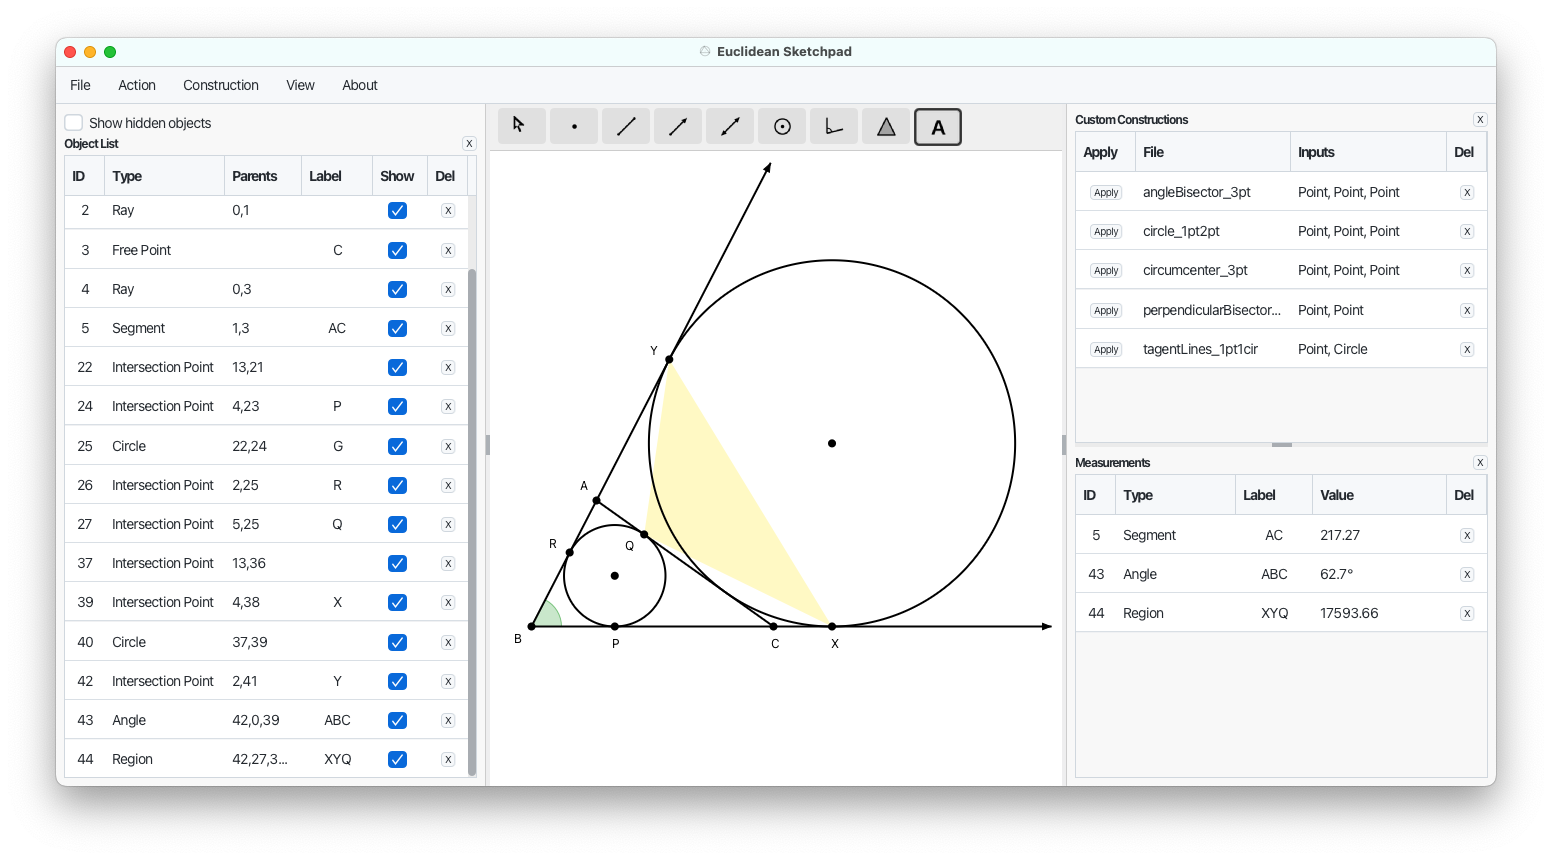
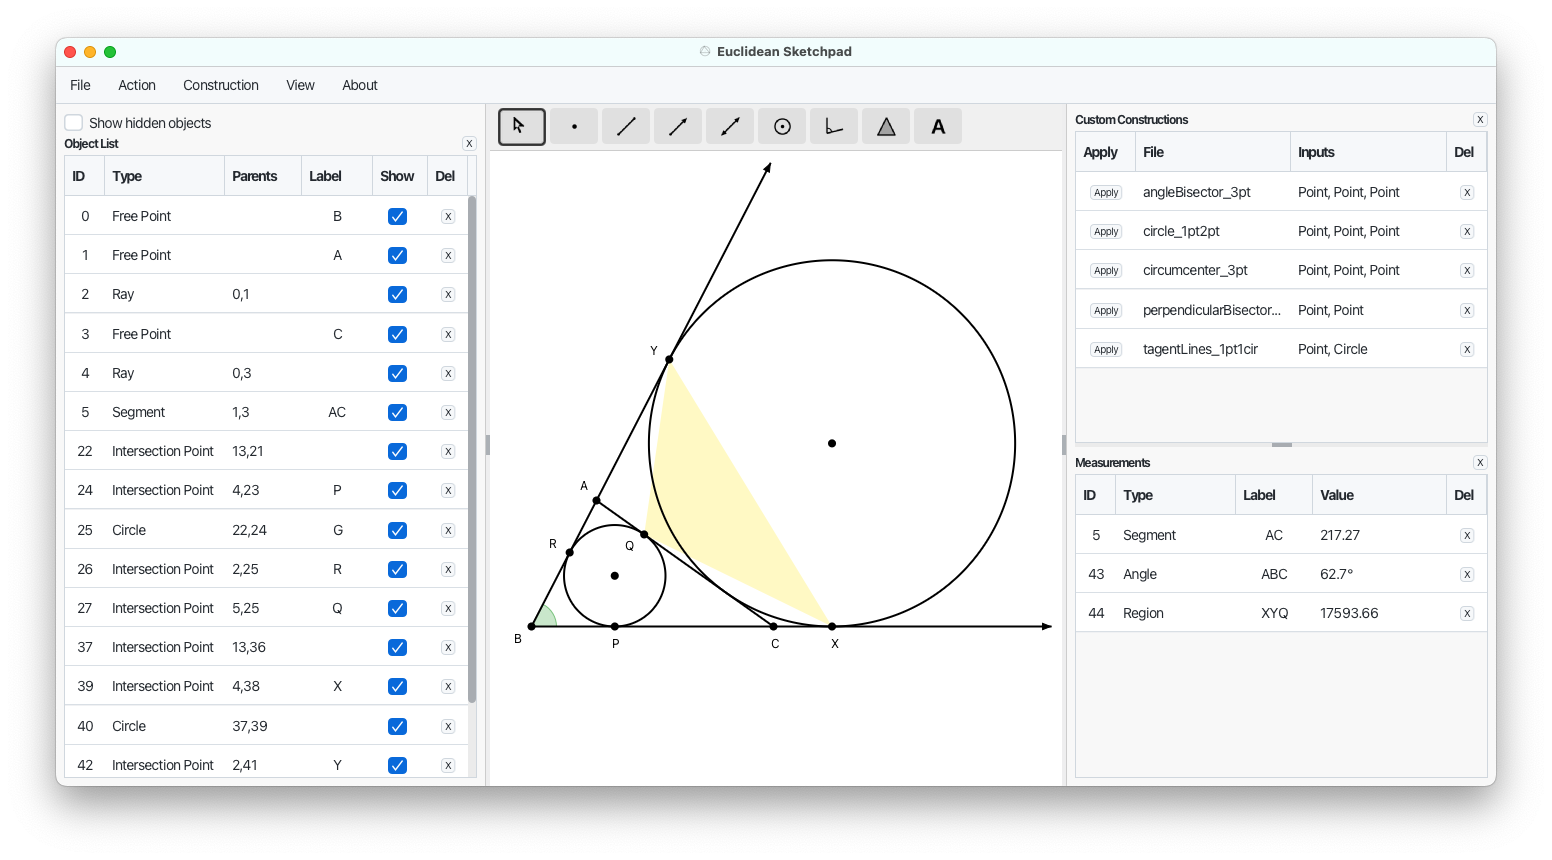
Release v1.5.6

diff --git a/src/main/kotlin/euclideansketchpad/Main.kt b/src/main/kotlin/euclideansketchpad/Main.kt
@@ -5,7 +5,7 @@ import euclideansketchpad.export.HeadlessExportApp
 import euclideansketchpad.ui.SketchpadApp
 
 const val APP_NAME = "EuclideanSketchpad"
-const val APP_VERSION = "1.5.5"
+const val APP_VERSION = "1.5.6"
 
 fun main(args: Array<String>) {
     if (args.isNotEmpty() && args[0] == "--export") {

diff --git a/src/main/kotlin/euclideansketchpad/geometry/GeometryUtils.kt b/src/main/kotlin/euclideansketchpad/geometry/GeometryUtils.kt
@@ -20,7 +20,7 @@ object GeometryUtils {
     const val STROKE_WIDTH = 2.0
     const val LINE_EXTENT = 100000.0
     const val ARROWHEAD_SIZE = 8.0
-    const val ANGLE_ARC_RADIUS = 30.0
+    const val ANGLE_ARC_RADIUS = 25.0
     const val FONT_SIZE = 12.0
     const val VIEWPORT_MARGIN_FRACTION = 0.02
 

diff --git a/handoff/HANDOFF.md b/handoff/HANDOFF.md
@@ -1,6 +1,6 @@
 # Euclidean Sketchpad — Handoff Document
 
-**Date:** 2026-11-02
+**Date:** 2026-11-07
 **Branch:** `main`
 
 ## Current State
@@ -9,7 +9,7 @@
 - **Git:** `.claude/` is gitignored.
 - **Runtime:** `./gradlew run` launches the full app.
 - **Headless export:** `./gradlew run --args="--export <diagram.json> [outDir]"` exports 6 files without opening the GUI.
-- **Packaging:** `./gradlew jpackage` produces `build/jpackage/EuclideanSketchpad-1.5.5.dmg` (~35 MB). `./gradlew jpackageImage` builds just the `.app` (faster, for testing). Not code-signed.
+- **Packaging:** `./gradlew jpackage` produces `build/jpackage/EuclideanSketchpad-1.5.6.dmg` (~35 MB). `./gradlew jpackageImage` builds just the `.app` (faster, for testing). Not code-signed.
 - **License:** GPL v3.0. Third-party notices for AtlantaFX (MIT), OpenJFX (GPL 2.0 + Classpath Exception), and kotlinx.serialization (Apache 2.0) are bundled in `src/main/resources/THIRD_PARTY_NOTICES` and viewable from the About dialog.
 - **Spec alignment:** All features described in `spec/SPEC.md` are implemented, including the `LinearLike` interface, 4 built-in constructions, specific type display names, "Custom Constructions" table rename, and viewport clipping for all object types.
 - **GitHub Pages:** `docs/` contains a static site (landing page, privacy policy, support page) served from `main` branch via GitHub Pages at `https://cartowong.github.io/euclidean-sketchpad/`. Images are copies of app assets to stay within the `/docs` serving root.

diff --git a/spec/SPEC.md b/spec/SPEC.md
@@ -291,7 +291,7 @@ Colors are set **programmatically** in the renderer, not via CSS classes. CSS cl
 | Region fill | | `#FFEB3B` at 0.3 opacity (semi-transparent yellow) |
 | Angle fill | | `#4CAF50` at 0.3 opacity (semi-transparent green) |
 | Angle stroke | | `#4CAF50` at 0.7 opacity, 1px |
-| Angle arc radius | | 30px (counter-scaled to world coordinates) |
+| Angle arc radius | | 25px (counter-scaled to world coordinates) |
 | Arrowheads | | 8px triangles (counter-scaled) |
 
 ### 5.2 State Styles

diff --git a/CHANGELOG.md b/CHANGELOG.md
@@ -6,6 +6,13 @@ The format is based on [Keep a Changelog](https://keepachangelog.com/), and this
 
 ## [Unreleased]
 
+## [1.5.6] - 2026-11-07
+
+### Changed
+
+- Decreased angle arc radius from 30px to 25px (screen pixels, counter-scaled)
+- Updated application screenshot
+
 ## [1.5.5] - 2026-11-02
 
 ### Added
